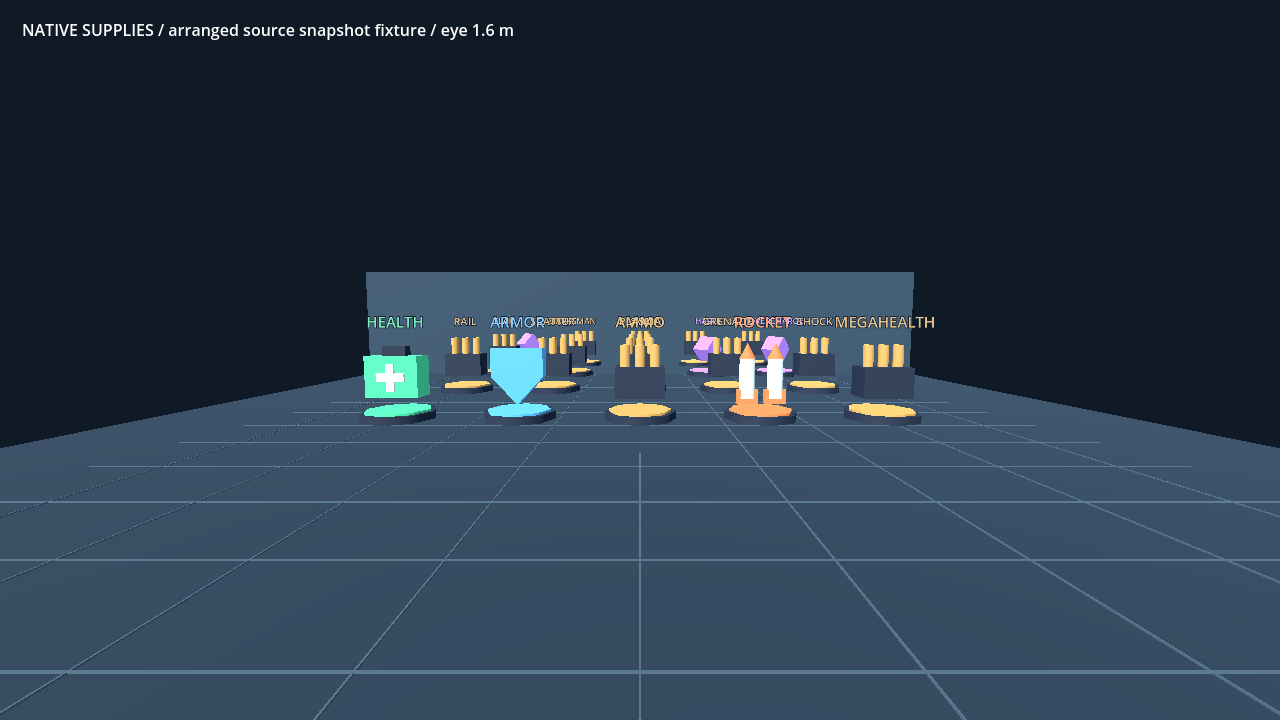
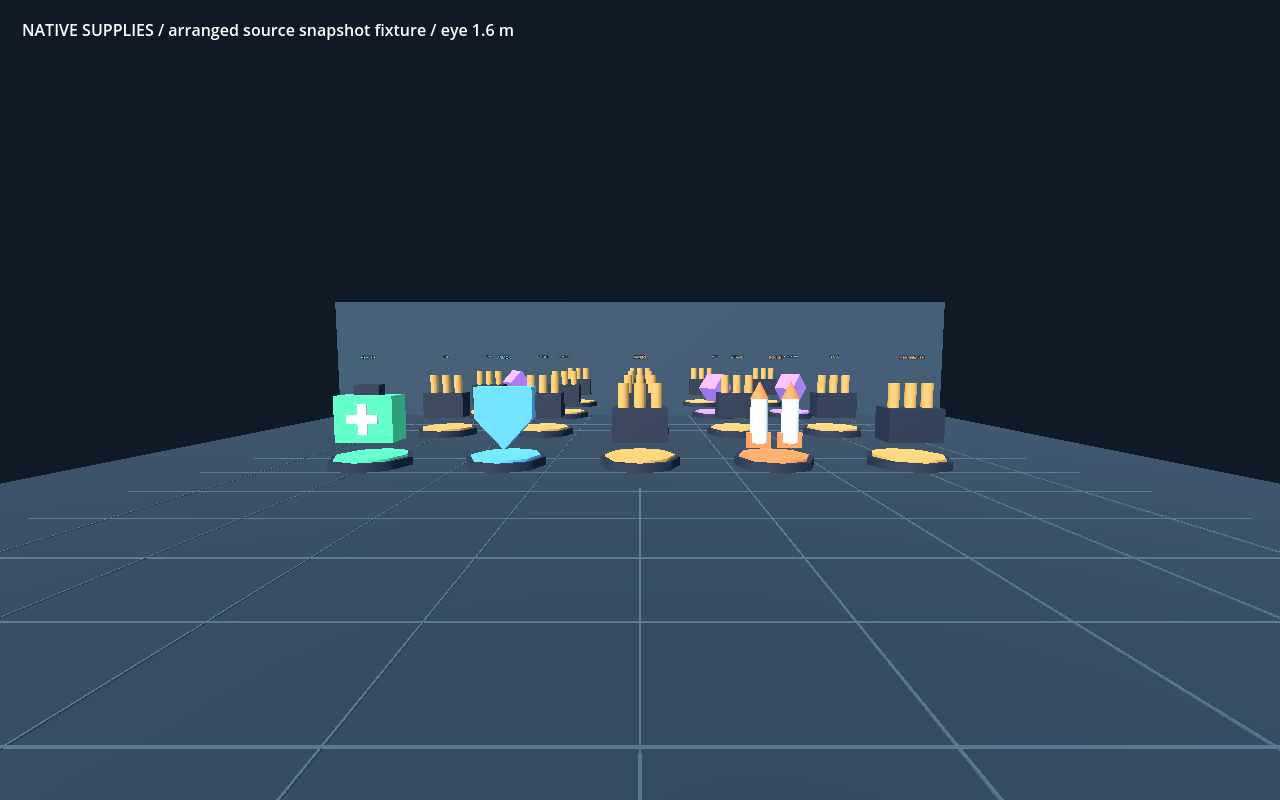
Tame the legacy pickup caption and refresh its comparison baseline
The oversized caption lived only in the retained legacy comparison asset; production
already uses the caption-free pickup visual. Font 32 -> 12, pixel size 0.005 -> 0.003,
visibility range capped at 6 m, with the 960x640 and 1280x720 before/after baselines
re-rendered and inspected.

diff --git a/port/native-combat-pickup-assets/README.md b/port/native-combat-pickup-assets/README.md
@@ -115,3 +115,17 @@ static `is` checks / untyped `weakref`, then an ArrayMesh-only count method used
 on TorusMesh. Those were corrected to generic mesh array inspection and explicit
 types. Final runs have no script, shader, resource-leak, or assertion errors.
 Xvfb/llvmpipe prints its normal unsupported V-Sync-mode warning.
+
+## Lead follow-up: legacy caption taming
+
+The retained legacy comparison asset (`godot/world/pickup_visual.gd`) still carried the
+32 px / 0.005 pixel-size caption that the release matrix recorded as oversized. Production
+does not use that file at all — `godot/world/pickups.gd` preloads the caption-free
+`combat_pickup_assets/pickup_visual.gd` — so the defect was already obsolete in the shipped
+game, but the legacy asset could still render a giant caption if it were ever reused.
+
+Lead applied the taming suggested by the UI lane: `font_size 12`, `pixel_size 0.003`,
+`visibility_range_end 6.0`. The comparison fixture was re-run at **960x640 and 1280x720**
+and both `before-legacy.png` images were refreshed, so the "before" baseline now shows the
+legacy shapes with a small, close-range-only caption. The archived originals are described
+in the UI lane's report (`port/native-ui-polish/README.md`).
